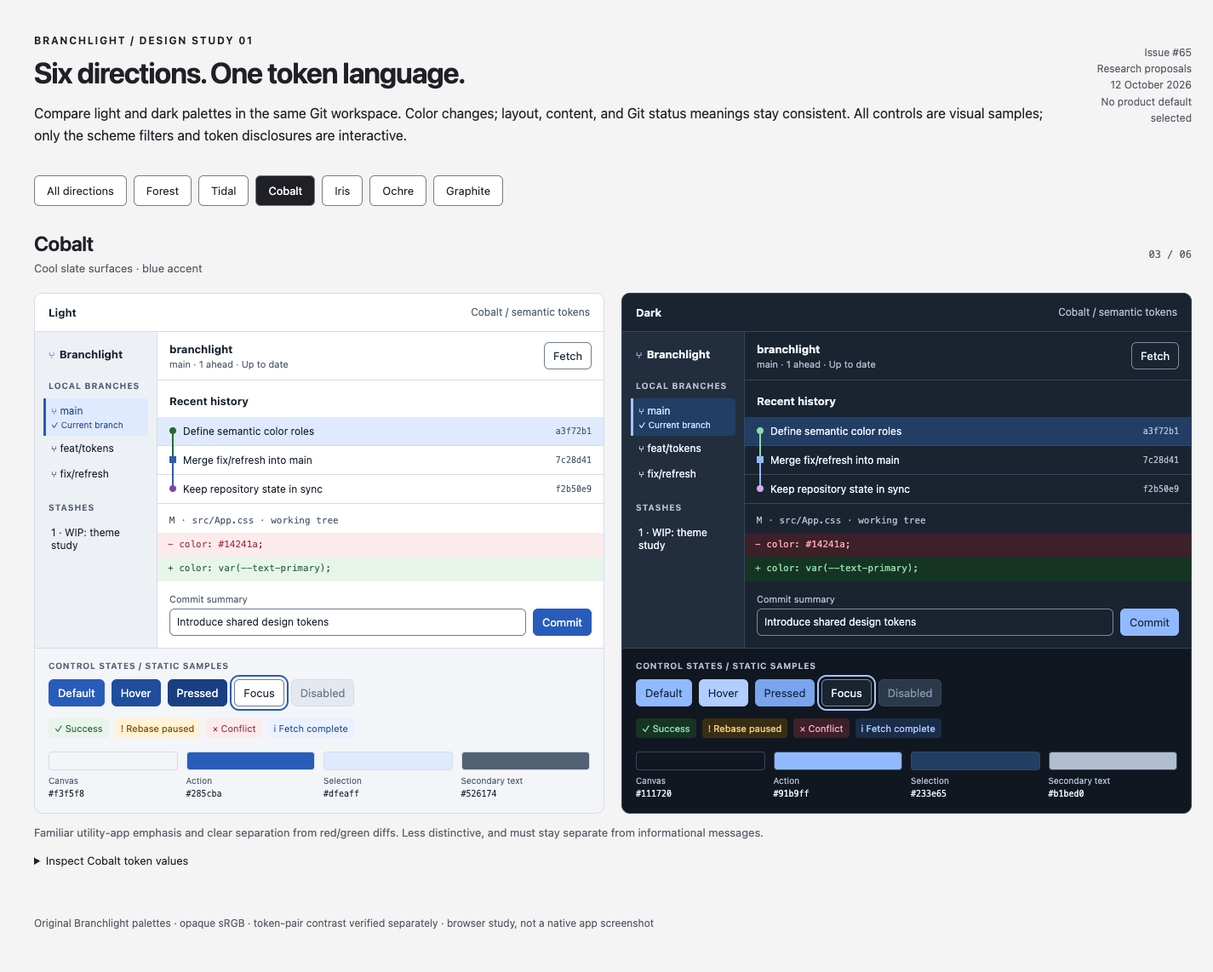
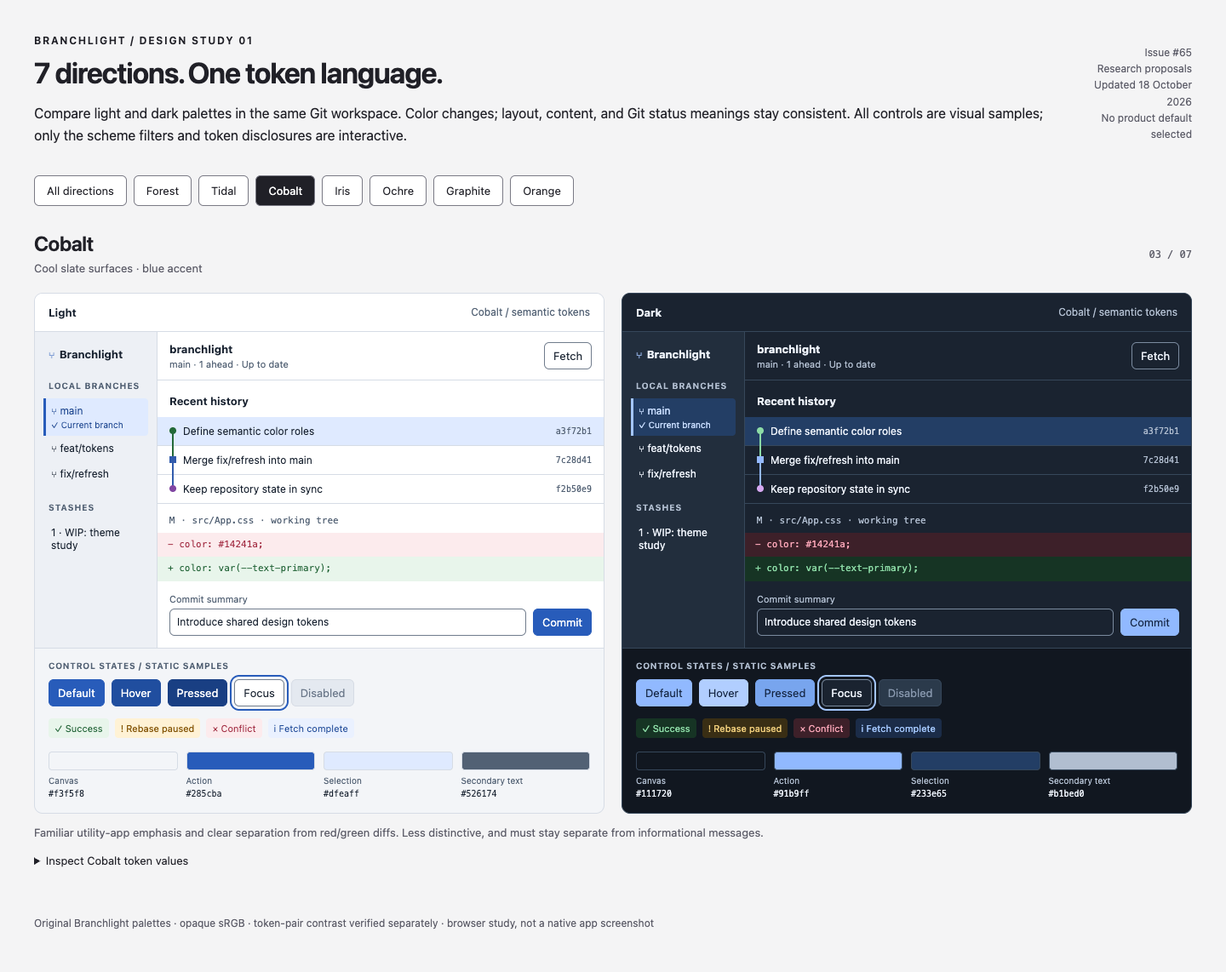
docs: add orange theme with ff7518 primary

diff --git a/docs/design-system/gallery.html b/docs/design-system/gallery.html
@@ -119,15 +119,15 @@ footer { color: #5d5d69; font-size: 12px; padding: 10px 0; }
 <body>
 <main>
 <header class="intro">
-<div><div class="eyebrow">Branchlight / Design study 01</div><h1>Six directions. One token language.</h1><p>Compare light and dark palettes in the same Git workspace. Color changes; layout, content, and Git status meanings stay consistent. All controls are visual samples; only the scheme filters and token disclosures are interactive.</p></div>
-<p class="review-note">Issue #65<br>Research proposals<br>12 October 2026<br>No product default selected</p>
+<div><div class="eyebrow">Branchlight / Design study 01</div><h1>7 directions. One token language.</h1><p>Compare light and dark palettes in the same Git workspace. Color changes; layout, content, and Git status meanings stay consistent. All controls are visual samples; only the scheme filters and token disclosures are interactive.</p></div>
+<p class="review-note">Issue #65<br>Research proposals<br>Updated 18 October 2026<br>No product default selected</p>
 </header>
 <nav aria-label="Color directions" id="filters"></nav>
 <div id="proposals" aria-live="polite"></div>
 <footer>Original Branchlight palettes · opaque sRGB · token-pair contrast verified separately · browser study, not a native app screenshot</footer>
 </main>
 <script>
-const study = {"researchedOn":"2026-10-12","status":"Proposals for review; no product theme selected","foundations":{"font.ui":"-apple-system, BlinkMacSystemFont, \"Segoe UI\", sans-serif","font.mono":"ui-monospace, \"SFMono-Regular\", Consolas, monospace","type.label":"12px","type.body":"13px","type.section":"16px","space.unit":"4px","radius.control":"6px","radius.panel":"10px","size.control":"32px","motion.feedback":"120ms"},"schemes":[{"id":"forest","name":"Forest","description":"Sage surfaces · evergreen accent","tradeoff":"Closest to the existing brand. Green actions need explicit labels so they are distinct from successful operations and added lines.","modes":{"light":{"surface.canvas":"#f4f6f5","surface.panel":"#ffffff","surface.subtle":"#edf1ef","surface.hover":"#e5ebe7","border.subtle":"#d7dfda","border.control":"#737d77","text.primary":"#18241e","text.secondary":"#526158","text.disabled":"#707a74","action.disabled":"#e5ebe7","git.add.background":"#e8f5eb","git.add.text":"#216336","git.delete.background":"#fcebed","git.delete.text":"#a22c42","status.warning.background":"#fff2d5","status.warning.text":"#805000","status.error.background":"#fcebed","status.error.text":"#a22c42","status.success.background":"#e8f5eb","status.success.text":"#216336","status.info.background":"#eaf1ff","status.info.text":"#254f9b","graph.lane.1":"#236938","graph.lane.2":"#315bac","graph.lane.3":"#8046a2","graph.lane.4":"#995209","action.primary":"#24613d","action.primary.hover":"#1c5131","action.primary.active":"#174329","action.onPrimary":"#ffffff","text.accent":"#24613d","selection.background":"#dceee2","selection.text":"#194c2d","focus.ring":"#24613d"},"dark":{"surface.canvas":"#101814","surface.panel":"#19231d","surface.subtle":"#202e25","surface.hover":"#2b3b30","border.subtle":"#35463b","border.control":"#87988d","text.primary":"#edf4ef","text.secondary":"#afc0b4","text.disabled":"#82938a","action.disabled":"#2b3b30","git.add.background":"#163424","git.add.text":"#8cdba6","git.delete.background":"#3d2029","git.delete.text":"#ffa8ba","status.warning.background":"#392e14","status.warning.text":"#f0ce7b","status.error.background":"#3d2029","status.error.text":"#ffa8ba","status.success.background":"#163424","status.success.text":"#8cdba6","status.info.background":"#1b2c48","status.info.text":"#a4c8ff","graph.lane.1":"#8cdba6","graph.lane.2":"#94b9ff","graph.lane.3":"#d5a8f1","graph.lane.4":"#edbb7a","action.primary":"#83d5a2","action.primary.hover":"#a0e2b8","action.primary.active":"#6dc58f","action.onPrimary":"#10291b","text.accent":"#96dfb0","selection.background":"#244a32","selection.text":"#b8f0cb","focus.ring":"#96dfb0"}}},{"id":"tidal","name":"Tidal","description":"Cool slate surfaces · teal accent","tradeoff":"A related botanical direction with more distance between navigation and Git addition green. Dark teal can still resemble success green.","modes":{"light":{"surface.canvas":"#f3f5f8","surface.panel":"#ffffff","surface.subtle":"#edf0f5","surface.hover":"#e4e9f0","border.subtle":"#d6dce5","border.control":"#707c8c","text.primary":"#182230","text.secondary":"#526174","text.disabled":"#6b788a","action.disabled":"#e4e9f0","git.add.background":"#e8f5eb","git.add.text":"#216336","git.delete.background":"#fcebed","git.delete.text":"#a22c42","status.warning.background":"#fff2d5","status.warning.text":"#805000","status.error.background":"#fcebed","status.error.text":"#a22c42","status.success.background":"#e8f5eb","status.success.text":"#216336","status.info.background":"#eaf1ff","status.info.text":"#254f9b","graph.lane.1":"#236938","graph.lane.2":"#315bac","graph.lane.3":"#8046a2","graph.lane.4":"#995209","action.primary":"#0e6870","action.primary.hover":"#0b575e","action.primary.active":"#08474e","action.onPrimary":"#ffffff","text.accent":"#0e6870","selection.background":"#d9eff0","selection.text":"#084e54","focus.ring":"#0e6870"},"dark":{"surface.canvas":"#111720","surface.panel":"#1a2330","surface.subtle":"#222e3d","surface.hover":"#2b3a4b","border.subtle":"#36475a","border.control":"#7b8b9f","text.primary":"#edf2fa","text.secondary":"#b1bed0","text.disabled":"#8696ac","action.disabled":"#2b3a4b","git.add.background":"#163424","git.add.text":"#8cdba6","git.delete.background":"#3d2029","git.delete.text":"#ffa8ba","status.warning.background":"#392e14","status.warning.text":"#f0ce7b","status.error.background":"#3d2029","status.error.text":"#ffa8ba","status.success.background":"#163424","status.success.text":"#8cdba6","status.info.background":"#1b2c48","status.info.text":"#a4c8ff","graph.lane.1":"#8cdba6","graph.lane.2":"#94b9ff","graph.lane.3":"#d5a8f1","graph.lane.4":"#edbb7a","action.primary":"#76d5dc","action.primary.hover":"#9ce3e8","action.primary.active":"#59c2cb","action.onPrimary":"#10272b","text.accent":"#8bdfe4","selection.background":"#16434a","selection.text":"#b8f0f2","focus.ring":"#8bdfe4"}}},{"id":"cobalt","name":"Cobalt","description":"Cool slate surfaces · blue accent","tradeoff":"Familiar utility-app emphasis and clear separation from red/green diffs. Less distinctive, and must stay separate from informational messages.","modes":{"light":{"surface.canvas":"#f3f5f8","surface.panel":"#ffffff","surface.subtle":"#edf0f5","surface.hover":"#e4e9f0","border.subtle":"#d6dce5","border.control":"#707c8c","text.primary":"#182230","text.secondary":"#526174","text.disabled":"#6b788a","action.disabled":"#e4e9f0","git.add.background":"#e8f5eb","git.add.text":"#216336","git.delete.background":"#fcebed","git.delete.text":"#a22c42","status.warning.background":"#fff2d5","status.warning.text":"#805000","status.error.background":"#fcebed","status.error.text":"#a22c42","status.success.background":"#e8f5eb","status.success.text":"#216336","status.info.background":"#eaf1ff","status.info.text":"#254f9b","graph.lane.1":"#236938","graph.lane.2":"#315bac","graph.lane.3":"#8046a2","graph.lane.4":"#995209","action.primary":"#285cba","action.primary.hover":"#204e9f","action.primary.active":"#193f83","action.onPrimary":"#ffffff","text.accent":"#285cba","selection.background":"#dfeaff","selection.text":"#1d468f","focus.ring":"#285cba"},"dark":{"surface.canvas":"#111720","surface.panel":"#1a2330","surface.subtle":"#222e3d","surface.hover":"#2b3a4b","border.subtle":"#36475a","border.control":"#7b8b9f","text.primary":"#edf2fa","text.secondary":"#b1bed0","text.disabled":"#8696ac","action.disabled":"#2b3a4b","git.add.background":"#163424","git.add.text":"#8cdba6","git.delete.background":"#3d2029","git.delete.text":"#ffa8ba","status.warning.background":"#392e14","status.warning.text":"#f0ce7b","status.error.background":"#3d2029","status.error.text":"#ffa8ba","status.success.background":"#163424","status.success.text":"#8cdba6","status.info.background":"#1b2c48","status.info.text":"#a4c8ff","graph.lane.1":"#8cdba6","graph.lane.2":"#94b9ff","graph.lane.3":"#d5a8f1","graph.lane.4":"#edbb7a","action.primary":"#91b9ff","action.primary.hover":"#b1ceff","action.primary.active":"#78a5ee","action.onPrimary":"#12233f","text.accent":"#a4c6ff","selection.background":"#233e65","selection.text":"#c8ddff","focus.ring":"#a4c6ff"}}},{"id":"iris","name":"Iris","description":"Neutral surfaces · violet accent","tradeoff":"Clear separation from common Git red/green states. More expressive than the current brand; reserve purple graph lanes for topology, not selection.","modes":{"light":{"surface.canvas":"#f4f4f5","surface.panel":"#ffffff","surface.subtle":"#ededf0","surface.hover":"#e4e4e8","border.subtle":"#d7d7de","border.control":"#7a7a85","text.primary":"#202027","text.secondary":"#5d5d69","text.disabled":"#777782","action.disabled":"#e4e4e8","git.add.background":"#e8f5eb","git.add.text":"#216336","git.delete.background":"#fcebed","git.delete.text":"#a22c42","status.warning.background":"#fff2d5","status.warning.text":"#805000","status.error.background":"#fcebed","status.error.text":"#a22c42","status.success.background":"#e8f5eb","status.success.text":"#216336","status.info.background":"#eaf1ff","status.info.text":"#254f9b","graph.lane.1":"#236938","graph.lane.2":"#315bac","graph.lane.3":"#8046a2","graph.lane.4":"#995209","action.primary":"#6b46b5","action.primary.hover":"#5a379c","action.primary.active":"#492b82","action.onPrimary":"#ffffff","text.accent":"#6b46b5","selection.background":"#ece4fa","selection.text":"#52328e","focus.ring":"#6b46b5"},"dark":{"surface.canvas":"#151518","surface.panel":"#202024","surface.subtle":"#2a2a30","surface.hover":"#34343c","border.subtle":"#42424b","border.control":"#8e8e9d","text.primary":"#f0f0f4","text.secondary":"#bcbcc9","text.disabled":"#9393a2","action.disabled":"#34343c","git.add.background":"#163424","git.add.text":"#8cdba6","git.delete.background":"#3d2029","git.delete.text":"#ffa8ba","status.warning.background":"#392e14","status.warning.text":"#f0ce7b","status.error.background":"#3d2029","status.error.text":"#ffa8ba","status.success.background":"#163424","status.success.text":"#8cdba6","status.info.background":"#1b2c48","status.info.text":"#a4c8ff","graph.lane.1":"#8cdba6","graph.lane.2":"#94b9ff","graph.lane.3":"#d5a8f1","graph.lane.4":"#edbb7a","action.primary":"#c5a6f5","action.primary.hover":"#d7c0ff","action.primary.active":"#ae8be1","action.onPrimary":"#281b3e","text.accent":"#d2b9fc","selection.background":"#403057","selection.text":"#e8d8ff","focus.ring":"#d2b9fc"}}},{"id":"ochre","name":"Ochre","description":"Warm paper surfaces · bronze accent","tradeoff":"Warm alternative for long reading sessions, a subjective preference to review. Amber-like accents must remain distinct from warning banners.","modes":{"light":{"surface.canvas":"#f8f5ef","surface.panel":"#fffdf8","surface.subtle":"#f1ece2","surface.hover":"#e9e2d6","border.subtle":"#ded5c7","border.control":"#837560","text.primary":"#2a241c","text.secondary":"#665b49","text.disabled":"#827660","action.disabled":"#e9e2d6","git.add.background":"#e8f5eb","git.add.text":"#216336","git.delete.background":"#fcebed","git.delete.text":"#a22c42","status.warning.background":"#fff2d5","status.warning.text":"#805000","status.error.background":"#fcebed","status.error.text":"#a22c42","status.success.background":"#e8f5eb","status.success.text":"#216336","status.info.background":"#eaf1ff","status.info.text":"#254f9b","graph.lane.1":"#236938","graph.lane.2":"#315bac","graph.lane.3":"#8046a2","graph.lane.4":"#995209","action.primary":"#88520b","action.primary.hover":"#714307","action.primary.active":"#5e3605","action.onPrimary":"#ffffff","text.accent":"#88520b","selection.background":"#f3e4c8","selection.text":"#65400b","focus.ring":"#88520b"},"dark":{"surface.canvas":"#1b1712","surface.panel":"#262119","surface.subtle":"#30291e","surface.hover":"#3d3324","border.subtle":"#4b402e","border.control":"#9b8a6e","text.primary":"#f7f0e4","text.secondary":"#c7bba6","text.disabled":"#a2947e","action.disabled":"#3d3324","git.add.background":"#163424","git.add.text":"#8cdba6","git.delete.background":"#3d2029","git.delete.text":"#ffa8ba","status.warning.background":"#392e14","status.warning.text":"#f0ce7b","status.error.background":"#3d2029","status.error.text":"#ffa8ba","status.success.background":"#163424","status.success.text":"#8cdba6","status.info.background":"#1b2c48","status.info.text":"#a4c8ff","graph.lane.1":"#8cdba6","graph.lane.2":"#94b9ff","graph.lane.3":"#d5a8f1","graph.lane.4":"#edbb7a","action.primary":"#e7bc70","action.primary.hover":"#f2d299","action.primary.active":"#d3a454","action.onPrimary":"#2e2110","text.accent":"#efcb8b","selection.background":"#503c1e","selection.text":"#f9dfad","focus.ring":"#efcb8b"}}},{"id":"graphite","name":"Graphite","description":"Neutral surfaces · monochrome accent","tradeoff":"Quiet chrome leaves color to Git content. Less brand identity; selected rows need a visible marker and text label.","modes":{"light":{"surface.canvas":"#f4f4f5","surface.panel":"#ffffff","surface.subtle":"#ededf0","surface.hover":"#e4e4e8","border.subtle":"#d7d7de","border.control":"#7a7a85","text.primary":"#202027","text.secondary":"#5d5d69","text.disabled":"#777782","action.disabled":"#e4e4e8","git.add.background":"#e8f5eb","git.add.text":"#216336","git.delete.background":"#fcebed","git.delete.text":"#a22c42","status.warning.background":"#fff2d5","status.warning.text":"#805000","status.error.background":"#fcebed","status.error.text":"#a22c42","status.success.background":"#e8f5eb","status.success.text":"#216336","status.info.background":"#eaf1ff","status.info.text":"#254f9b","graph.lane.1":"#236938","graph.lane.2":"#315bac","graph.lane.3":"#8046a2","graph.lane.4":"#995209","action.primary":"#3e3e49","action.primary.hover":"#2f2f38","action.primary.active":"#24242c","action.onPrimary":"#ffffff","text.accent":"#42424d","selection.background":"#e1e1e8","selection.text":"#292933","focus.ring":"#42424d"},"dark":{"surface.canvas":"#151518","surface.panel":"#202024","surface.subtle":"#2a2a30","surface.hover":"#34343c","border.subtle":"#42424b","border.control":"#8e8e9d","text.primary":"#f0f0f4","text.secondary":"#bcbcc9","text.disabled":"#9393a2","action.disabled":"#34343c","git.add.background":"#163424","git.add.text":"#8cdba6","git.delete.background":"#3d2029","git.delete.text":"#ffa8ba","status.warning.background":"#392e14","status.warning.text":"#f0ce7b","status.error.background":"#3d2029","status.error.text":"#ffa8ba","status.success.background":"#163424","status.success.text":"#8cdba6","status.info.background":"#1b2c48","status.info.text":"#a4c8ff","graph.lane.1":"#8cdba6","graph.lane.2":"#94b9ff","graph.lane.3":"#d5a8f1","graph.lane.4":"#edbb7a","action.primary":"#d4d4df","action.primary.hover":"#e9e9f1","action.primary.active":"#bdbdcb","action.onPrimary":"#22222b","text.accent":"#dedee8","selection.background":"#40404c","selection.text":"#f4f4fa","focus.ring":"#dedee8"}}}]};
+const study = {"researchedOn":"2026-10-12","status":"Proposals for review; no product theme selected","foundations":{"font.ui":"-apple-system, BlinkMacSystemFont, \"Segoe UI\", sans-serif","font.mono":"ui-monospace, \"SFMono-Regular\", Consolas, monospace","type.label":"12px","type.body":"13px","type.section":"16px","space.unit":"4px","radius.control":"6px","radius.panel":"10px","size.control":"32px","motion.feedback":"120ms"},"schemes":[{"id":"forest","name":"Forest","description":"Sage surfaces · evergreen accent","tradeoff":"Closest to the existing brand. Green actions need explicit labels so they are distinct from successful operations and added lines.","modes":{"light":{"surface.canvas":"#f4f6f5","surface.panel":"#ffffff","surface.subtle":"#edf1ef","surface.hover":"#e5ebe7","border.subtle":"#d7dfda","border.control":"#737d77","text.primary":"#18241e","text.secondary":"#526158","text.disabled":"#707a74","action.disabled":"#e5ebe7","git.add.background":"#e8f5eb","git.add.text":"#216336","git.delete.background":"#fcebed","git.delete.text":"#a22c42","status.warning.background":"#fff2d5","status.warning.text":"#805000","status.error.background":"#fcebed","status.error.text":"#a22c42","status.success.background":"#e8f5eb","status.success.text":"#216336","status.info.background":"#eaf1ff","status.info.text":"#254f9b","graph.lane.1":"#236938","graph.lane.2":"#315bac","graph.lane.3":"#8046a2","graph.lane.4":"#995209","action.primary":"#24613d","action.primary.hover":"#1c5131","action.primary.active":"#174329","action.onPrimary":"#ffffff","text.accent":"#24613d","selection.background":"#dceee2","selection.text":"#194c2d","focus.ring":"#24613d"},"dark":{"surface.canvas":"#101814","surface.panel":"#19231d","surface.subtle":"#202e25","surface.hover":"#2b3b30","border.subtle":"#35463b","border.control":"#87988d","text.primary":"#edf4ef","text.secondary":"#afc0b4","text.disabled":"#82938a","action.disabled":"#2b3b30","git.add.background":"#163424","git.add.text":"#8cdba6","git.delete.background":"#3d2029","git.delete.text":"#ffa8ba","status.warning.background":"#392e14","status.warning.text":"#f0ce7b","status.error.background":"#3d2029","status.error.text":"#ffa8ba","status.success.background":"#163424","status.success.text":"#8cdba6","status.info.background":"#1b2c48","status.info.text":"#a4c8ff","graph.lane.1":"#8cdba6","graph.lane.2":"#94b9ff","graph.lane.3":"#d5a8f1","graph.lane.4":"#edbb7a","action.primary":"#83d5a2","action.primary.hover":"#a0e2b8","action.primary.active":"#6dc58f","action.onPrimary":"#10291b","text.accent":"#96dfb0","selection.background":"#244a32","selection.text":"#b8f0cb","focus.ring":"#96dfb0"}}},{"id":"tidal","name":"Tidal","description":"Cool slate surfaces · teal accent","tradeoff":"A related botanical direction with more distance between navigation and Git addition green. Dark teal can still resemble success green.","modes":{"light":{"surface.canvas":"#f3f5f8","surface.panel":"#ffffff","surface.subtle":"#edf0f5","surface.hover":"#e4e9f0","border.subtle":"#d6dce5","border.control":"#707c8c","text.primary":"#182230","text.secondary":"#526174","text.disabled":"#6b788a","action.disabled":"#e4e9f0","git.add.background":"#e8f5eb","git.add.text":"#216336","git.delete.background":"#fcebed","git.delete.text":"#a22c42","status.warning.background":"#fff2d5","status.warning.text":"#805000","status.error.background":"#fcebed","status.error.text":"#a22c42","status.success.background":"#e8f5eb","status.success.text":"#216336","status.info.background":"#eaf1ff","status.info.text":"#254f9b","graph.lane.1":"#236938","graph.lane.2":"#315bac","graph.lane.3":"#8046a2","graph.lane.4":"#995209","action.primary":"#0e6870","action.primary.hover":"#0b575e","action.primary.active":"#08474e","action.onPrimary":"#ffffff","text.accent":"#0e6870","selection.background":"#d9eff0","selection.text":"#084e54","focus.ring":"#0e6870"},"dark":{"surface.canvas":"#111720","surface.panel":"#1a2330","surface.subtle":"#222e3d","surface.hover":"#2b3a4b","border.subtle":"#36475a","border.control":"#7b8b9f","text.primary":"#edf2fa","text.secondary":"#b1bed0","text.disabled":"#8696ac","action.disabled":"#2b3a4b","git.add.background":"#163424","git.add.text":"#8cdba6","git.delete.background":"#3d2029","git.delete.text":"#ffa8ba","status.warning.background":"#392e14","status.warning.text":"#f0ce7b","status.error.background":"#3d2029","status.error.text":"#ffa8ba","status.success.background":"#163424","status.success.text":"#8cdba6","status.info.background":"#1b2c48","status.info.text":"#a4c8ff","graph.lane.1":"#8cdba6","graph.lane.2":"#94b9ff","graph.lane.3":"#d5a8f1","graph.lane.4":"#edbb7a","action.primary":"#76d5dc","action.primary.hover":"#9ce3e8","action.primary.active":"#59c2cb","action.onPrimary":"#10272b","text.accent":"#8bdfe4","selection.background":"#16434a","selection.text":"#b8f0f2","focus.ring":"#8bdfe4"}}},{"id":"cobalt","name":"Cobalt","description":"Cool slate surfaces · blue accent","tradeoff":"Familiar utility-app emphasis and clear separation from red/green diffs. Less distinctive, and must stay separate from informational messages.","modes":{"light":{"surface.canvas":"#f3f5f8","surface.panel":"#ffffff","surface.subtle":"#edf0f5","surface.hover":"#e4e9f0","border.subtle":"#d6dce5","border.control":"#707c8c","text.primary":"#182230","text.secondary":"#526174","text.disabled":"#6b788a","action.disabled":"#e4e9f0","git.add.background":"#e8f5eb","git.add.text":"#216336","git.delete.background":"#fcebed","git.delete.text":"#a22c42","status.warning.background":"#fff2d5","status.warning.text":"#805000","status.error.background":"#fcebed","status.error.text":"#a22c42","status.success.background":"#e8f5eb","status.success.text":"#216336","status.info.background":"#eaf1ff","status.info.text":"#254f9b","graph.lane.1":"#236938","graph.lane.2":"#315bac","graph.lane.3":"#8046a2","graph.lane.4":"#995209","action.primary":"#285cba","action.primary.hover":"#204e9f","action.primary.active":"#193f83","action.onPrimary":"#ffffff","text.accent":"#285cba","selection.background":"#dfeaff","selection.text":"#1d468f","focus.ring":"#285cba"},"dark":{"surface.canvas":"#111720","surface.panel":"#1a2330","surface.subtle":"#222e3d","surface.hover":"#2b3a4b","border.subtle":"#36475a","border.control":"#7b8b9f","text.primary":"#edf2fa","text.secondary":"#b1bed0","text.disabled":"#8696ac","action.disabled":"#2b3a4b","git.add.background":"#163424","git.add.text":"#8cdba6","git.delete.background":"#3d2029","git.delete.text":"#ffa8ba","status.warning.background":"#392e14","status.warning.text":"#f0ce7b","status.error.background":"#3d2029","status.error.text":"#ffa8ba","status.success.background":"#163424","status.success.text":"#8cdba6","status.info.background":"#1b2c48","status.info.text":"#a4c8ff","graph.lane.1":"#8cdba6","graph.lane.2":"#94b9ff","graph.lane.3":"#d5a8f1","graph.lane.4":"#edbb7a","action.primary":"#91b9ff","action.primary.hover":"#b1ceff","action.primary.active":"#78a5ee","action.onPrimary":"#12233f","text.accent":"#a4c6ff","selection.background":"#233e65","selection.text":"#c8ddff","focus.ring":"#a4c6ff"}}},{"id":"iris","name":"Iris","description":"Neutral surfaces · violet accent","tradeoff":"Clear separation from common Git red/green states. More expressive than the current brand; reserve purple graph lanes for topology, not selection.","modes":{"light":{"surface.canvas":"#f4f4f5","surface.panel":"#ffffff","surface.subtle":"#ededf0","surface.hover":"#e4e4e8","border.subtle":"#d7d7de","border.control":"#7a7a85","text.primary":"#202027","text.secondary":"#5d5d69","text.disabled":"#777782","action.disabled":"#e4e4e8","git.add.background":"#e8f5eb","git.add.text":"#216336","git.delete.background":"#fcebed","git.delete.text":"#a22c42","status.warning.background":"#fff2d5","status.warning.text":"#805000","status.error.background":"#fcebed","status.error.text":"#a22c42","status.success.background":"#e8f5eb","status.success.text":"#216336","status.info.background":"#eaf1ff","status.info.text":"#254f9b","graph.lane.1":"#236938","graph.lane.2":"#315bac","graph.lane.3":"#8046a2","graph.lane.4":"#995209","action.primary":"#6b46b5","action.primary.hover":"#5a379c","action.primary.active":"#492b82","action.onPrimary":"#ffffff","text.accent":"#6b46b5","selection.background":"#ece4fa","selection.text":"#52328e","focus.ring":"#6b46b5"},"dark":{"surface.canvas":"#151518","surface.panel":"#202024","surface.subtle":"#2a2a30","surface.hover":"#34343c","border.subtle":"#42424b","border.control":"#8e8e9d","text.primary":"#f0f0f4","text.secondary":"#bcbcc9","text.disabled":"#9393a2","action.disabled":"#34343c","git.add.background":"#163424","git.add.text":"#8cdba6","git.delete.background":"#3d2029","git.delete.text":"#ffa8ba","status.warning.background":"#392e14","status.warning.text":"#f0ce7b","status.error.background":"#3d2029","status.error.text":"#ffa8ba","status.success.background":"#163424","status.success.text":"#8cdba6","status.info.background":"#1b2c48","status.info.text":"#a4c8ff","graph.lane.1":"#8cdba6","graph.lane.2":"#94b9ff","graph.lane.3":"#d5a8f1","graph.lane.4":"#edbb7a","action.primary":"#c5a6f5","action.primary.hover":"#d7c0ff","action.primary.active":"#ae8be1","action.onPrimary":"#281b3e","text.accent":"#d2b9fc","selection.background":"#403057","selection.text":"#e8d8ff","focus.ring":"#d2b9fc"}}},{"id":"ochre","name":"Ochre","description":"Warm paper surfaces · bronze accent","tradeoff":"Warm alternative for long reading sessions, a subjective preference to review. Amber-like accents must remain distinct from warning banners.","modes":{"light":{"surface.canvas":"#f8f5ef","surface.panel":"#fffdf8","surface.subtle":"#f1ece2","surface.hover":"#e9e2d6","border.subtle":"#ded5c7","border.control":"#837560","text.primary":"#2a241c","text.secondary":"#665b49","text.disabled":"#827660","action.disabled":"#e9e2d6","git.add.background":"#e8f5eb","git.add.text":"#216336","git.delete.background":"#fcebed","git.delete.text":"#a22c42","status.warning.background":"#fff2d5","status.warning.text":"#805000","status.error.background":"#fcebed","status.error.text":"#a22c42","status.success.background":"#e8f5eb","status.success.text":"#216336","status.info.background":"#eaf1ff","status.info.text":"#254f9b","graph.lane.1":"#236938","graph.lane.2":"#315bac","graph.lane.3":"#8046a2","graph.lane.4":"#995209","action.primary":"#88520b","action.primary.hover":"#714307","action.primary.active":"#5e3605","action.onPrimary":"#ffffff","text.accent":"#88520b","selection.background":"#f3e4c8","selection.text":"#65400b","focus.ring":"#88520b"},"dark":{"surface.canvas":"#1b1712","surface.panel":"#262119","surface.subtle":"#30291e","surface.hover":"#3d3324","border.subtle":"#4b402e","border.control":"#9b8a6e","text.primary":"#f7f0e4","text.secondary":"#c7bba6","text.disabled":"#a2947e","action.disabled":"#3d3324","git.add.background":"#163424","git.add.text":"#8cdba6","git.delete.background":"#3d2029","git.delete.text":"#ffa8ba","status.warning.background":"#392e14","status.warning.text":"#f0ce7b","status.error.background":"#3d2029","status.error.text":"#ffa8ba","status.success.background":"#163424","status.success.text":"#8cdba6","status.info.background":"#1b2c48","status.info.text":"#a4c8ff","graph.lane.1":"#8cdba6","graph.lane.2":"#94b9ff","graph.lane.3":"#d5a8f1","graph.lane.4":"#edbb7a","action.primary":"#e7bc70","action.primary.hover":"#f2d299","action.primary.active":"#d3a454","action.onPrimary":"#2e2110","text.accent":"#efcb8b","selection.background":"#503c1e","selection.text":"#f9dfad","focus.ring":"#efcb8b"}}},{"id":"graphite","name":"Graphite","description":"Neutral surfaces · monochrome accent","tradeoff":"Quiet chrome leaves color to Git content. Less brand identity; selected rows need a visible marker and text label.","modes":{"light":{"surface.canvas":"#f4f4f5","surface.panel":"#ffffff","surface.subtle":"#ededf0","surface.hover":"#e4e4e8","border.subtle":"#d7d7de","border.control":"#7a7a85","text.primary":"#202027","text.secondary":"#5d5d69","text.disabled":"#777782","action.disabled":"#e4e4e8","git.add.background":"#e8f5eb","git.add.text":"#216336","git.delete.background":"#fcebed","git.delete.text":"#a22c42","status.warning.background":"#fff2d5","status.warning.text":"#805000","status.error.background":"#fcebed","status.error.text":"#a22c42","status.success.background":"#e8f5eb","status.success.text":"#216336","status.info.background":"#eaf1ff","status.info.text":"#254f9b","graph.lane.1":"#236938","graph.lane.2":"#315bac","graph.lane.3":"#8046a2","graph.lane.4":"#995209","action.primary":"#3e3e49","action.primary.hover":"#2f2f38","action.primary.active":"#24242c","action.onPrimary":"#ffffff","text.accent":"#42424d","selection.background":"#e1e1e8","selection.text":"#292933","focus.ring":"#42424d"},"dark":{"surface.canvas":"#151518","surface.panel":"#202024","surface.subtle":"#2a2a30","surface.hover":"#34343c","border.subtle":"#42424b","border.control":"#8e8e9d","text.primary":"#f0f0f4","text.secondary":"#bcbcc9","text.disabled":"#9393a2","action.disabled":"#34343c","git.add.background":"#163424","git.add.text":"#8cdba6","git.delete.background":"#3d2029","git.delete.text":"#ffa8ba","status.warning.background":"#392e14","status.warning.text":"#f0ce7b","status.error.background":"#3d2029","status.error.text":"#ffa8ba","status.success.background":"#163424","status.success.text":"#8cdba6","status.info.background":"#1b2c48","status.info.text":"#a4c8ff","graph.lane.1":"#8cdba6","graph.lane.2":"#94b9ff","graph.lane.3":"#d5a8f1","graph.lane.4":"#edbb7a","action.primary":"#d4d4df","action.primary.hover":"#e9e9f1","action.primary.active":"#bdbdcb","action.onPrimary":"#22222b","text.accent":"#dedee8","selection.background":"#40404c","selection.text":"#f4f4fa","focus.ring":"#dedee8"}}},{"id":"orange","name":"Orange","description":"Neutral surfaces · vivid orange accent","tradeoff":"Primary #ff7518 stays exact in both modes. Dark button labels preserve contrast; deeper orange handles light-mode links and focus. Keep warning banners distinct through labels and separate status tokens.","modes":{"light":{"surface.canvas":"#f4f4f5","surface.panel":"#ffffff","surface.subtle":"#ededf0","surface.hover":"#e4e4e8","border.subtle":"#d7d7de","border.control":"#7a7a85","text.primary":"#202027","text.secondary":"#5d5d69","text.disabled":"#777782","action.disabled":"#e4e4e8","git.add.background":"#e8f5eb","git.add.text":"#216336","git.delete.background":"#fcebed","git.delete.text":"#a22c42","status.warning.background":"#fff2d5","status.warning.text":"#805000","status.error.background":"#fcebed","status.error.text":"#a22c42","status.success.background":"#e8f5eb","status.success.text":"#216336","status.info.background":"#eaf1ff","status.info.text":"#254f9b","graph.lane.1":"#236938","graph.lane.2":"#315bac","graph.lane.3":"#8046a2","graph.lane.4":"#995209","action.primary":"#ff7518","action.primary.hover":"#f06a10","action.primary.active":"#e5630b","action.onPrimary":"#24150c","text.accent":"#9b3d00","selection.background":"#ffeadb","selection.text":"#6e2900","focus.ring":"#9b3d00"},"dark":{"surface.canvas":"#151518","surface.panel":"#202024","surface.subtle":"#2a2a30","surface.hover":"#34343c","border.subtle":"#42424b","border.control":"#8e8e9d","text.primary":"#f0f0f4","text.secondary":"#bcbcc9","text.disabled":"#9393a2","action.disabled":"#34343c","git.add.background":"#163424","git.add.text":"#8cdba6","git.delete.background":"#3d2029","git.delete.text":"#ffa8ba","status.warning.background":"#392e14","status.warning.text":"#f0ce7b","status.error.background":"#3d2029","status.error.text":"#ffa8ba","status.success.background":"#163424","status.success.text":"#8cdba6","status.info.background":"#1b2c48","status.info.text":"#a4c8ff","graph.lane.1":"#8cdba6","graph.lane.2":"#94b9ff","graph.lane.3":"#d5a8f1","graph.lane.4":"#edbb7a","action.primary":"#ff7518","action.primary.hover":"#ff8d40","action.primary.active":"#ed6910","action.onPrimary":"#24150c","text.accent":"#ff9a54","selection.background":"#4c2c1a","selection.text":"#ffcfad","focus.ring":"#ff9a54"}}}],"updatedOn":"2026-10-18"};
 const cssName = (name) => `--${name.replaceAll(".", "-")}`;
 const escapeHtml = (value) => String(value).replaceAll("&", "&amp;").replaceAll("<", "&lt;").replaceAll(">", "&gt;").replaceAll('"', "&quot;");
 const tokensAsStyle = (tokens) => Object.entries(tokens).map(([key, value]) => `${cssName(key)}:${value}`).join(";");
@@ -151,7 +151,7 @@ function workspace(scheme, mode) {
 }
 function render(id) {
   const schemes = study.schemes.filter((scheme) => id === "all" || id === scheme.id);
-  document.getElementById("proposals").innerHTML = schemes.map((scheme) => `<section class="proposal" id="${scheme.id}" aria-labelledby="${scheme.id}-title"><div class="proposal-heading"><div><h2 id="${scheme.id}-title">${scheme.name}</h2><p>${scheme.description}</p></div><span class="ordinal">0${study.schemes.indexOf(scheme) + 1} / 06</span></div><div class="paired">${workspace(scheme, "light")}${workspace(scheme, "dark")}</div><p class="tradeoff">${scheme.tradeoff}</p><details><summary>Inspect ${scheme.name} token values</summary><table class="token-table"><thead><tr><th scope="col">Role</th><th scope="col">Light</th><th scope="col">Dark</th></tr></thead><tbody>${Object.entries(scheme.modes.light).map(([key, value]) => `<tr><th scope="row">${key}</th><td>${value}</td><td>${scheme.modes.dark[key]}</td></tr>`).join("")}</tbody></table></details></section>`).join("");
+  document.getElementById("proposals").innerHTML = schemes.map((scheme) => `<section class="proposal" id="${scheme.id}" aria-labelledby="${scheme.id}-title"><div class="proposal-heading"><div><h2 id="${scheme.id}-title">${scheme.name}</h2><p>${scheme.description}</p></div><span class="ordinal">0${study.schemes.indexOf(scheme) + 1} / ${String(study.schemes.length).padStart(2, "0")}</span></div><div class="paired">${workspace(scheme, "light")}${workspace(scheme, "dark")}</div><p class="tradeoff">${scheme.tradeoff}</p><details><summary>Inspect ${scheme.name} token values</summary><table class="token-table"><thead><tr><th scope="col">Role</th><th scope="col">Light</th><th scope="col">Dark</th></tr></thead><tbody>${Object.entries(scheme.modes.light).map(([key, value]) => `<tr><th scope="row">${key}</th><td>${value}</td><td>${scheme.modes.dark[key]}</td></tr>`).join("")}</tbody></table></details></section>`).join("");
   document.querySelectorAll("#filters button").forEach((button) => button.setAttribute("aria-pressed", String(button.dataset.scheme === id)));
   // Samples intentionally cannot mutate Git or simulate successful operations.
   document.querySelectorAll("button.sample").forEach((button) => button.addEventListener("click", (event) => event.preventDefault()));

diff --git a/docs/design-system/gallery.template.html b/docs/design-system/gallery.template.html
@@ -110,8 +110,8 @@ footer { color: #5d5d69; font-size: 12px; padding: 10px 0; }
 <body>
 <main>
 <header class="intro">
-<div><div class="eyebrow">Branchlight / Design study 01</div><h1>Six directions. One token language.</h1><p>Compare light and dark palettes in the same Git workspace. Color changes; layout, content, and Git status meanings stay consistent. All controls are visual samples; only the scheme filters and token disclosures are interactive.</p></div>
-<p class="review-note">Issue #65<br>Research proposals<br>12 October 2026<br>No product default selected</p>
+<div><div class="eyebrow">Branchlight / Design study 01</div><h1><!-- DIRECTION_COUNT --> directions. One token language.</h1><p>Compare light and dark palettes in the same Git workspace. Color changes; layout, content, and Git status meanings stay consistent. All controls are visual samples; only the scheme filters and token disclosures are interactive.</p></div>
+<p class="review-note">Issue #65<br>Research proposals<br>Updated 18 October 2026<br>No product default selected</p>
 </header>
 <nav aria-label="Color directions" id="filters"></nav>
 <div id="proposals" aria-live="polite"></div>
@@ -142,7 +142,7 @@ function workspace(scheme, mode) {
 }
 function render(id) {
   const schemes = study.schemes.filter((scheme) => id === "all" || id === scheme.id);
-  document.getElementById("proposals").innerHTML = schemes.map((scheme) => `<section class="proposal" id="${scheme.id}" aria-labelledby="${scheme.id}-title"><div class="proposal-heading"><div><h2 id="${scheme.id}-title">${scheme.name}</h2><p>${scheme.description}</p></div><span class="ordinal">0${study.schemes.indexOf(scheme) + 1} / 06</span></div><div class="paired">${workspace(scheme, "light")}${workspace(scheme, "dark")}</div><p class="tradeoff">${scheme.tradeoff}</p><details><summary>Inspect ${scheme.name} token values</summary><table class="token-table"><thead><tr><th scope="col">Role</th><th scope="col">Light</th><th scope="col">Dark</th></tr></thead><tbody>${Object.entries(scheme.modes.light).map(([key, value]) => `<tr><th scope="row">${key}</th><td>${value}</td><td>${scheme.modes.dark[key]}</td></tr>`).join("")}</tbody></table></details></section>`).join("");
+  document.getElementById("proposals").innerHTML = schemes.map((scheme) => `<section class="proposal" id="${scheme.id}" aria-labelledby="${scheme.id}-title"><div class="proposal-heading"><div><h2 id="${scheme.id}-title">${scheme.name}</h2><p>${scheme.description}</p></div><span class="ordinal">0${study.schemes.indexOf(scheme) + 1} / ${String(study.schemes.length).padStart(2, "0")}</span></div><div class="paired">${workspace(scheme, "light")}${workspace(scheme, "dark")}</div><p class="tradeoff">${scheme.tradeoff}</p><details><summary>Inspect ${scheme.name} token values</summary><table class="token-table"><thead><tr><th scope="col">Role</th><th scope="col">Light</th><th scope="col">Dark</th></tr></thead><tbody>${Object.entries(scheme.modes.light).map(([key, value]) => `<tr><th scope="row">${key}</th><td>${value}</td><td>${scheme.modes.dark[key]}</td></tr>`).join("")}</tbody></table></details></section>`).join("");
   document.querySelectorAll("#filters button").forEach((button) => button.setAttribute("aria-pressed", String(button.dataset.scheme === id)));
   // Samples intentionally cannot mutate Git or simulate successful operations.
   document.querySelectorAll("button.sample").forEach((button) => button.addEventListener("click", (event) => event.preventDefault()));

diff --git a/docs/design-system/README.md b/docs/design-system/README.md
@@ -1,7 +1,7 @@
 # Branchlight design system: theme research
 
 Research for [#65](https://github.com/wctiger/branchlight/issues/65), prepared
-2026-10-12. This PR proposes visual foundations and six color directions for
+2026-10-12, updated 2026-10-18. This PR proposes visual foundations and seven color directions for
 review. It does not choose a product default or implement theme preferences.
 The existing app remains unchanged; #65 stays open for implementation.
 
@@ -13,7 +13,7 @@ network access, or Git repository access. GitHub displays its source rather than
 running it, so the screenshots below are also included for PR review.
 
 Use the scheme buttons to compare one direction at a time, or **All directions**
-to inspect all six. Each direction shows the same light/dark workspace, branches,
+to inspect all seven. Each direction shows the same light/dark workspace, branches,
 history, red/green diff, selection, control states, and operation status samples.
 Expand its token table to inspect all values. The workspace controls are visual
 samples, not working Git operations. `?scheme=cobalt` opens a particular proposal.
@@ -26,13 +26,14 @@ samples, not working Git operations. `?scheme=cobalt` opens a particular proposa
 | **Iris** | `#6b46b5` / `#c5a6f5` | Violet on neutral gray; distinct from Git red/green | A larger change to the brand; purple graph lanes need separate semantics |
 | **Ochre** | `#88520b` / `#e7bc70` | Bronze on warm paper/charcoal | Accent can resemble warnings; reading comfort is subjective |
 | **Graphite** | `#3e3e49` / `#d4d4df` | Monochrome chrome; Git content supplies the color | Less brand identity; selection needs a marker and label |
+| **Orange** | `#ff7518` / `#ff7518` | Vivid orange on neutral surfaces; requested primary stays exact | Needs dark button labels, darker light-mode text/focus, and distinct warning cues |
 
 **Recommendation for discussion:** start with Forest if preserving Branchlight's
 current green identity is the priority. Keep Cobalt as the strongest alternative
 if distinguishing interface actions from green Git additions matters more.
 These are design judgments, not user-research findings. Iris provides a useful
 third comparison with an accent outside the usual Git red/green/blue vocabulary.
-Do not ship all six as a theme picker merely because they are explored here.
+Do not ship all seven as a theme picker merely because they are explored here.
 
 ### Forest
 
@@ -57,6 +58,16 @@ Do not ship all six as a theme picker merely because they are explored here.
 ### Graphite
 
 ![Graphite light and dark proposal](screenshots/graphite.png)
+
+### Orange
+
+![Orange light and dark proposal](screenshots/orange.png)
+
+The requested `#ff7518` is the primary action fill in both modes. It pairs with
+dark `#24150c` button labels. Light-mode accent text and focus use deeper
+`#9b3d00`; the bright primary itself is not used for small text on a light
+surface. Hover/pressed fills stay orange. Warning and Git colors keep their
+existing independent meanings.
 
 ## Research and decisions it informs
 
@@ -85,7 +96,7 @@ Use three layers during implementation:
    such as `button.primary.background → action.primary`.
 
 The research stores resolved semantic colors in [themes.json](themes.json),
-making all twelve proposals easy to inspect. It does not prematurely create a
+making all fourteen proposals easy to inspect. It does not prematurely create a
 full primitive scale or component library. The same set of 34 color roles is
 present in each palette; the generator verifies parity.
 
@@ -147,7 +158,7 @@ offline review. The generator fails on mismatched token sets, invalid sRGB
 colors, undefined CSS variables, or a failed declared contrast pair. `--check`
 also fails when generated artifacts are stale.
 
-[Contrast evidence](CONTRAST.md) records all 732 passing pairs across twelve
+[Contrast evidence](CONTRAST.md) records all 854 passing pairs across fourteen
 palettes; [contrast.csv](contrast.csv) includes each ratio and target. This is
 pair evidence for the proposal, not a full accessibility audit or native runtime
 verification. Decorative dividers and disabled controls are excluded. Actual

diff --git a/docs/design-system/CONTRAST.md b/docs/design-system/CONTRAST.md
@@ -23,7 +23,9 @@ distinguishability, native dialogs, transparency, or operating-system rendering.
 | Ochre | dark | 5.53:1 | 3.12:1 | 61 |
 | Graphite | light | 4.99:1 | 3.26:1 | 61 |
 | Graphite | dark | 5.44:1 | 3.16:1 | 61 |
+| Orange | light | 5.12:1 | 3.35:1 | 61 |
+| Orange | dark | 5.58:1 | 3.82:1 | 61 |
 
-All 732 declared pairs pass. Full evidence: [contrast.csv](contrast.csv).
+All 854 declared pairs pass. Full evidence: [contrast.csv](contrast.csv).
 The gallery intentionally uses text labels, +/− diff markers, and graph topology
 as additional cues; rendered accessibility still needs verification during implementation.
